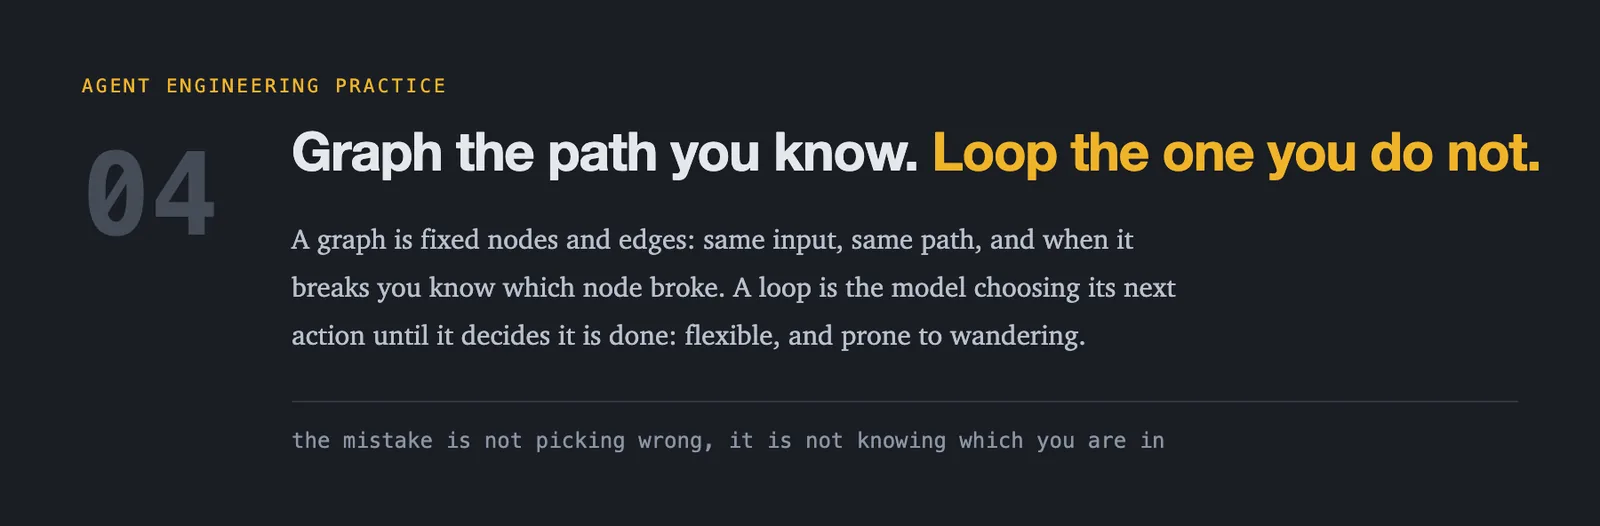
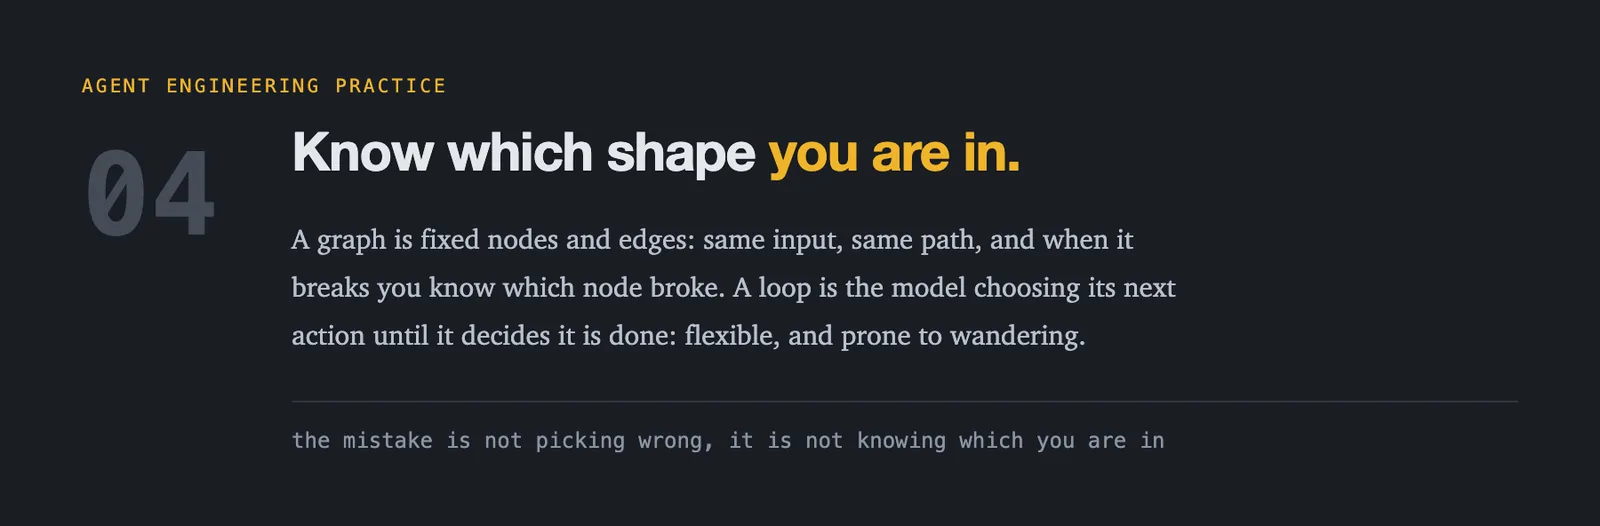
Retitle practice 04 and name Oracle's required agent-loop bound
04 and 05 both read as graph/loop couplets, so in a list of six they looked
like one idea split in two. They are not: 04 is taxonomy and selection, 05 is
lifecycle and composition. Retitle 04 to "Know which shape you are in" so the
two stop mirroring each other; the body already did the taxonomy work.

05 said "with a hard cap on iterations", which undersold it. An Agent node
with tools must declare maxInteractions, an integer from 1 to 20 - omitting it
or going out of range is invalid per Oracle's node contract, so an unbounded
agentic loop is not authorable in a Fusion workflow at all. Say that instead.

Changed region(s): [[0.1875, 0.2433, 0.9688, 0.365]]

diff --git a/docs/index.html b/docs/index.html
@@ -616,7 +616,7 @@ figure img{transition:box-shadow .5s ease}
   <div class="rule-row">
     <div class="rn">04</div>
     <div>
-      <h3>Graph the path you know. Loop the one you do not.</h3>
+      <h3>Know which shape you are in</h3>
       <p>Two shapes, and they are not interchangeable. A <strong>graph</strong> is fixed nodes and edges - resolve the request, fetch the data, let the model reason, return an answer. Same input, same path, and when it breaks you know which node broke. A <strong>loop</strong> is the model choosing its next action, seeing the result, and choosing again until it decides it is finished.</p>
       <p class="home">The loop handles problems whose shape you cannot predict. It also wanders, costs an unpredictable number of turns, and cannot be held to a latency budget. The mistake is rarely picking the wrong one - it is not knowing which one you are in. Oracle draws the same line as workflow teams versus supervisor teams, compared in <a href="#apps">&sect;10</a>.</p>
     </div>
@@ -626,7 +626,7 @@ figure img{transition:box-shadow .5s ease}
     <div class="rn">05</div>
     <div>
       <h3>Loop to learn, graph to ship</h3>
-      <p>This is where the two earn their keep together. Run the loop where exploration is cheap and a human is watching - at build time, in the terminal - then freeze the path it proved into a graph that runs in production. Where a single step stays genuinely open-ended, put a bounded loop inside one graph node with a hard cap on iterations.</p>
+      <p>This is where the two earn their keep together. Run the loop where exploration is cheap and a human is watching - at build time, in the terminal - then freeze the path it proved into a graph that runs in production. Where a single step stays genuinely open-ended, put a bounded loop inside one graph node. Oracle makes that bound required: an Agent node with tools must declare <code>maxInteractions</code>, an integer from 1 to 20, so an unbounded agentic loop is not authorable.</p>
       <p class="home">That way the graph owns control flow and the loop owns only local judgement. It is also exactly what this guide does: a loop in Claude Code, driving validated commands, to produce a graph that ships.</p>
     </div>
   </div>
@@ -643,7 +643,7 @@ figure img{transition:box-shadow .5s ease}
 </div>
 
 <figure>
-  <img src="images/07-practice-04-graph-or-loop.webp" alt="Practice 04: graph the path you know, loop the one you do not. A graph is fixed nodes and edges, so the same input takes the same path and a failure names its node. A loop is the model choosing its next action until it decides it is done: flexible, and prone to wandering.">
+  <img src="images/07-practice-04-graph-or-loop.webp" alt="Practice 04: know which shape you are in. A graph is fixed nodes and edges, so the same input takes the same path and a failure names its node. A loop is the model choosing its next action until it decides it is done: flexible, and prone to wandering.">
   <figcaption><span class="fn">Fig. 5</span><span>The one practice most teams get backwards: knowing which shape you are in.</span></figcaption>
 </figure>
 </section>
@@ -1766,7 +1766,7 @@ cp -R &lt;newly-unzipped&gt;/aistudio ~/fusion-ai-workspace/.agents/skills/
   <figcaption><span class="fn">Fig. 29</span><span>None of the six is Oracle-specific. Use them on whatever you build next.</span></figcaption>
 </figure>
 
-<p>That is how you ship agents when a wrong answer is not an option. Agree the contract before any code. Read-only until a human opens the gate. Discover first, and leave what you find alone. Graph the path you know, loop the one you do not. Loop to learn, graph to ship. Validation is the definition of done.</p>
+<p>That is how you ship agents when a wrong answer is not an option. Agree the contract before any code. Read-only until a human opens the gate. Discover first, and leave what you find alone. Know which shape you are in. Loop to learn, graph to ship. Validation is the definition of done.</p>
 
 <h3>Links</h3>
 <ul>

diff --git a/docs/images/src/07-practice-04-graph-or-loop.html b/docs/images/src/07-practice-04-graph-or-loop.html
@@ -1,1 +1,1 @@
-<!doctype html><meta charset=utf-8><style>html,body{margin:0;padding:0;background:#1A1D24}svg{display:block}</style><svg xmlns="http://www.w3.org/2000/svg" viewBox="0 0 900 296" width="900" height="296" role="img" aria-label="Practice 04: Graph the path you know. Loop the one you do not. A graph is fixed nodes and edges: same input, same path, and when it breaks you know which node broke. A loop is the model choosing its next action until it decides it is done: flexible, and prone to wandering."><rect width="900" height="296" fill="#1A1D24"/><text x="46" y="52" font-family="SF Mono, Menlo, Consolas, monospace" font-size="10.5" fill="#F0B429" letter-spacing="1.6">AGENT ENGINEERING PRACTICE</text><text x="46" y="132" font-family="SF Mono, Menlo, Consolas, monospace" font-size="64" fill="#454B57" font-weight="600">04</text><text x="164" y="96" font-family="Helvetica Neue, Helvetica, Arial, sans-serif" font-size="30" font-weight="700" letter-spacing="-0.6"><tspan fill="#E4E7EC">Graph the path you know. </tspan><tspan fill="#F0B429">Loop the one you do not.</tspan></text><text x="164" y="140" font-family="Charter, Bitstream Charter, Sitka Text, Cambria, Georgia, serif" font-size="15.5" fill="#B9C0CC">A graph is fixed nodes and edges: same input, same path, and when it</text><text x="164" y="167" font-family="Charter, Bitstream Charter, Sitka Text, Cambria, Georgia, serif" font-size="15.5" fill="#B9C0CC">breaks you know which node broke. A loop is the model choosing its next</text><text x="164" y="194" font-family="Charter, Bitstream Charter, Sitka Text, Cambria, Georgia, serif" font-size="15.5" fill="#B9C0CC">action until it decides it is done: flexible, and prone to wandering.</text><line x1="164" y1="226" x2="854" y2="226" stroke="#31363F" stroke-width="1"/><text x="164" y="252" font-family="SF Mono, Menlo, Consolas, monospace" font-size="12" fill="#8C94A3">the mistake is not picking wrong, it is not knowing which you are in</text></svg>
+<!doctype html><meta charset=utf-8><style>html,body{margin:0;padding:0;background:#1A1D24}svg{display:block}</style><svg xmlns="http://www.w3.org/2000/svg" viewBox="0 0 900 296" width="900" height="296" role="img" aria-label="Practice 04: Know which shape you are in. A graph is fixed nodes and edges: same input, same path, and when it breaks you know which node broke. A loop is the model choosing its next action until it decides it is done: flexible, and prone to wandering."><rect width="900" height="296" fill="#1A1D24"/><text x="46" y="52" font-family="SF Mono, Menlo, Consolas, monospace" font-size="10.5" fill="#F0B429" letter-spacing="1.6">AGENT ENGINEERING PRACTICE</text><text x="46" y="132" font-family="SF Mono, Menlo, Consolas, monospace" font-size="64" fill="#454B57" font-weight="600">04</text><text x="164" y="96" font-family="Helvetica Neue, Helvetica, Arial, sans-serif" font-size="30" font-weight="700" letter-spacing="-0.6"><tspan fill="#E4E7EC">Know which shape </tspan><tspan fill="#F0B429">you are in.</tspan></text><text x="164" y="140" font-family="Charter, Bitstream Charter, Sitka Text, Cambria, Georgia, serif" font-size="15.5" fill="#B9C0CC">A graph is fixed nodes and edges: same input, same path, and when it</text><text x="164" y="167" font-family="Charter, Bitstream Charter, Sitka Text, Cambria, Georgia, serif" font-size="15.5" fill="#B9C0CC">breaks you know which node broke. A loop is the model choosing its next</text><text x="164" y="194" font-family="Charter, Bitstream Charter, Sitka Text, Cambria, Georgia, serif" font-size="15.5" fill="#B9C0CC">action until it decides it is done: flexible, and prone to wandering.</text><line x1="164" y1="226" x2="854" y2="226" stroke="#31363F" stroke-width="1"/><text x="164" y="252" font-family="SF Mono, Menlo, Consolas, monospace" font-size="12" fill="#8C94A3">the mistake is not picking wrong, it is not knowing which you are in</text></svg>

diff --git a/docs/images/src/render.py b/docs/images/src/render.py
@@ -293,7 +293,7 @@ RULES = [
       "renames the rest, because other artifacts call those by name."],
      "the most expensive agent rebuilds what already existed"),
     ("07-practice-04-graph-or-loop", "04",
-     [("Graph the path you know. ", INK), ("Loop the one you do not.", ACC)],
+     [("Know which shape ", INK), ("you are in.", ACC)],
      ["A graph is fixed nodes and edges: same input, same path, and when it",
       "breaks you know which node broke. A loop is the model choosing its next",
       "action until it decides it is done: flexible, and prone to wandering."],

diff --git a/docs/BLOG.md b/docs/BLOG.md
@@ -115,9 +115,9 @@ edits or renames the rest.
 The rename clause matters more than it looks: other artifacts call those by name. The most expensive
 agent in a big company is the one that rebuilds something that already existed.
 
-**04 - Graph the path you know. Loop the one you do not.**
+**04 - Know which shape you are in.**
 
-![Practice 04 - graph the path you know, loop the one you do not: fixed edges versus a model choosing its next action](images/07-practice-04-graph-or-loop.webp)
+![Practice 04 - know which shape you are in: fixed edges versus a model choosing its next action](images/07-practice-04-graph-or-loop.webp)
 
 Two shapes, and they are not interchangeable. A **graph** is fixed nodes and edges - resolve the
 request, fetch the data, let the model reason, return an answer. Same input, same path, and when it
@@ -136,7 +136,8 @@ supervisor teams, compared in [§10](#10-agentic-apps-explained).
 This is where the two earn their keep together. Run the loop where exploration is cheap and a human
 is watching - at build time, in the terminal - then freeze the path it proved into a graph that runs
 in production. Where a single step stays genuinely open-ended, put a bounded loop inside one graph
-node with a hard cap on iterations.
+node. Oracle makes that bound required: an Agent node with tools must declare `maxInteractions`, an
+integer from 1 to 20, so an unbounded agentic loop is not authorable.
 
 That way the graph owns control flow and the loop owns only local judgement. It is also exactly what
 this guide does: a loop in Claude Code, driving validated commands, to produce a graph that ships.
@@ -1220,7 +1221,7 @@ The interesting bit is that Oracle wrote down their own expertise as files a mac
 
 ![Closing summary: spec first, one gated write, discover first, fixed structure, checks pass](images/34-practices-closing.webp)
 
-That is how you ship agents when a wrong answer is not an option. Agree the contract before any code. Read-only until a human opens the gate. Discover first, and leave what you find alone. Graph the path you know, loop the one you do not. Loop to learn, graph to ship. Validation is the definition of done.
+That is how you ship agents when a wrong answer is not an option. Agree the contract before any code. Read-only until a human opens the gate. Discover first, and leave what you find alone. Know which shape you are in. Loop to learn, graph to ship. Validation is the definition of done.
 
 Not one of those six is Oracle-specific. Use them on whatever you build next.
 
